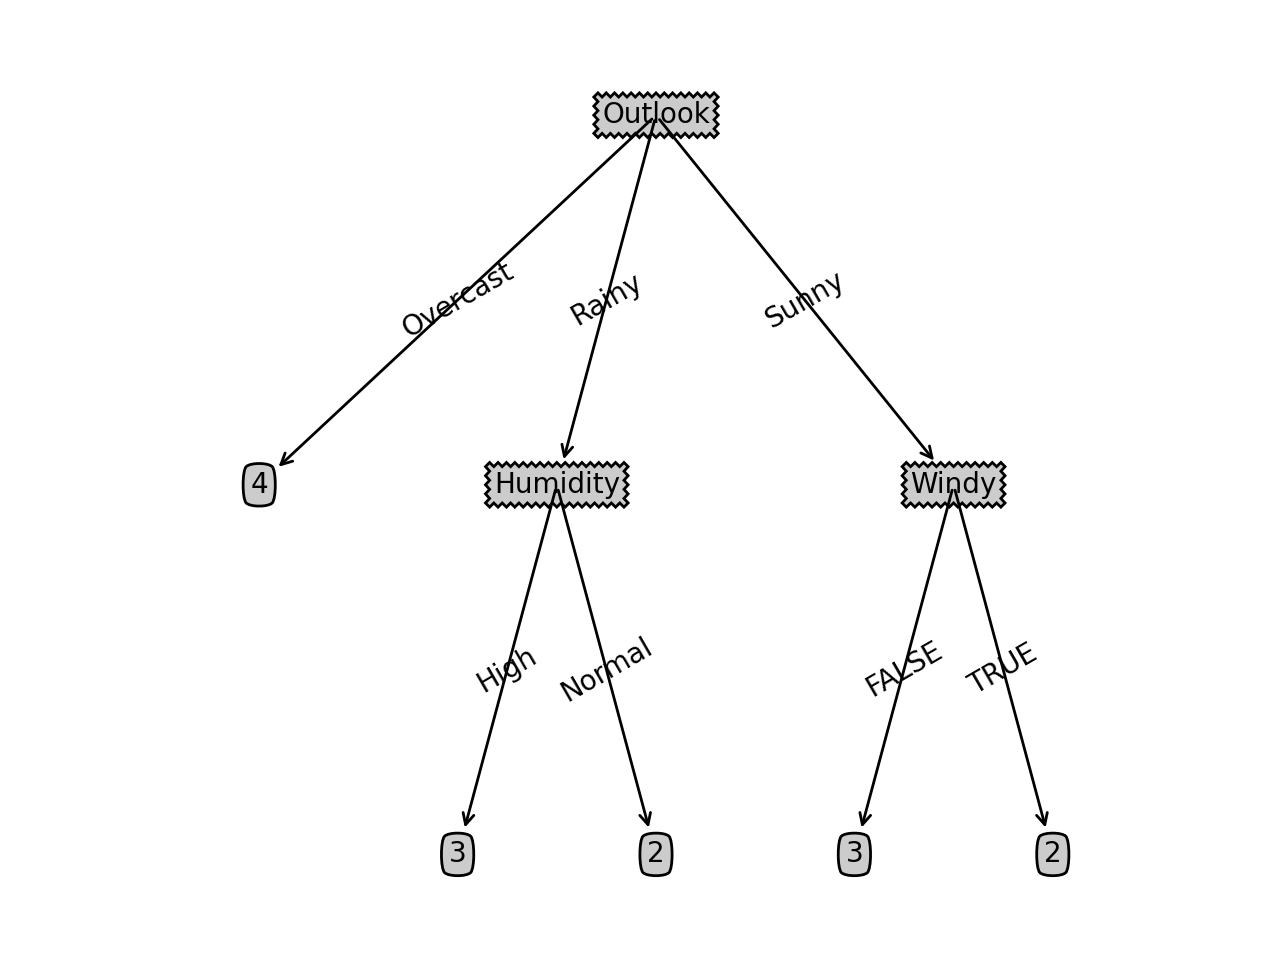
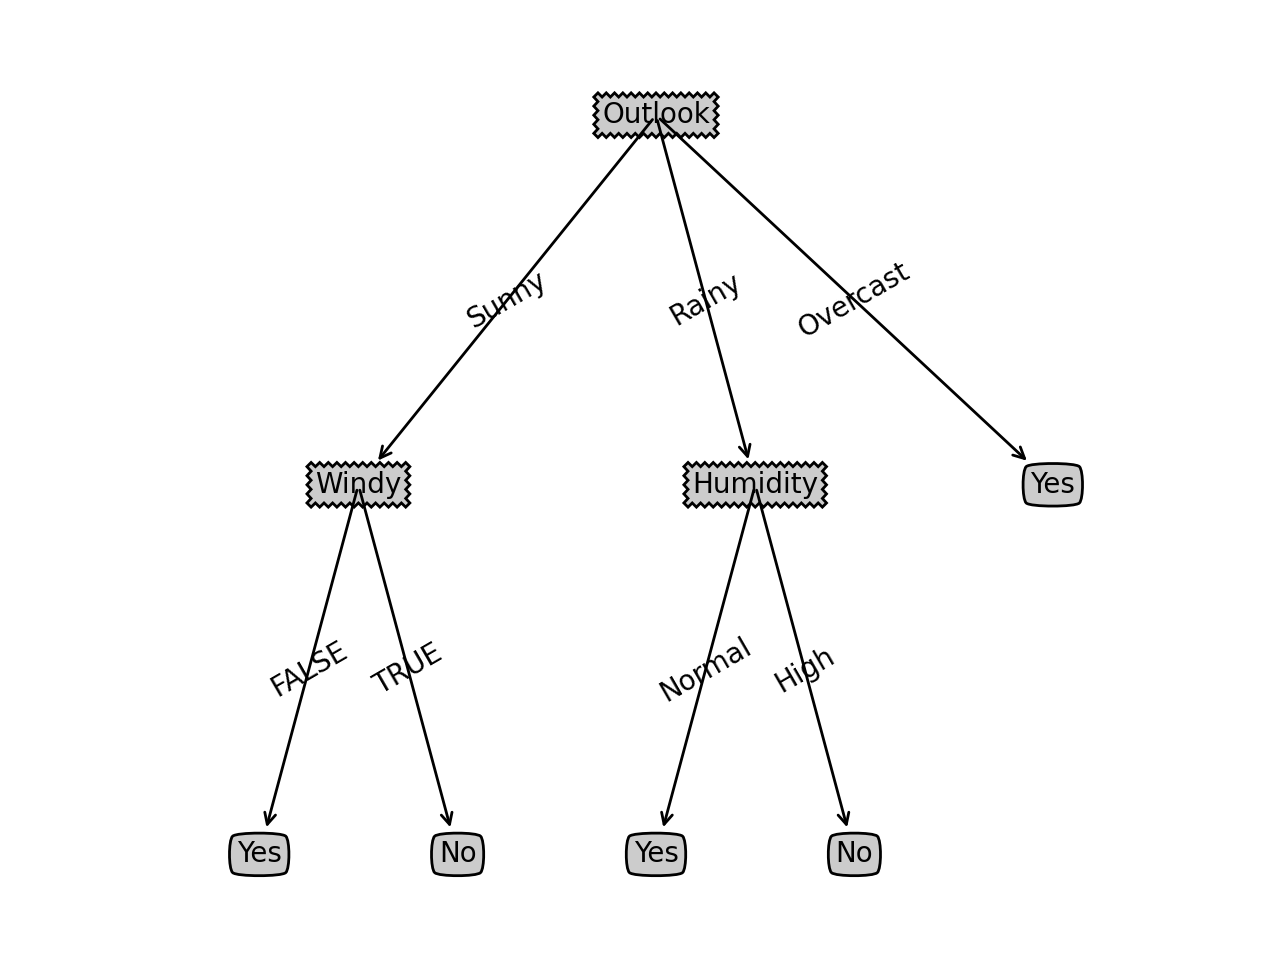
got car.csv working finally the stoppin criteria is weird

diff --git a/decisionTree_template.py b/decisionTree_template.py
@@ -4,7 +4,6 @@ import treeplot
 import pandas as pd
 import numpy as np
 
-feature_names = []
 
 def loadDataSet(filepath):
     '''
@@ -24,8 +23,6 @@ def loadDataSet(filepath):
             featNames = array[:-1]
         else:
             data.append(array)
-    global feature_names
-    feature_names = featNames
     return data, featNames
 
 
@@ -80,37 +77,28 @@ def chooseBestFeature(dataSet):
     dataFrame = pd.DataFrame(dataSet)
     classLabeCounts = dataFrame[dataFrame.columns[-1]].value_counts() #Yes and NO labels of the whole dataset
     bigGini = giniMath(dataFrame.shape[0], classLabeCounts) #This is the big gini of the entire dataset
-    print("Big Gini is: ", bigGini)
     for i in range(len(dataFrame.columns)-1): #looping through all the m feature columns and not label column
         uniqueValuesInFeature = dataFrame[i].unique() #unique features of the column we are at
         featureCounts = dataFrame[i].value_counts()
-        print("The feature counts of this column are: ",featureCounts)
         giniList = [] #list that will store little ginis
-        fractionList = [] #list that will store the yes fractions
+        fractionList = [] #list that will store the whole fractions
         for label in uniqueValuesInFeature:
-            print("feature label: ", label, " has count: ",featureCounts[label])
             df = pd.DataFrame(splitData(dataSet, i, label))
             subsetCount = df[df.columns[-1]].value_counts() # last column yes and no counts. The biggest one first
             giniList.append(giniMath(df.shape[0], subsetCount))
             fractionList.append(featureCounts[label]/dataFrame.shape[0])
-        print("Gini list length: ", len(giniList), " the list length of frac: ", len(fractionList))
-        # computeGin = 0
-        # for idx,value in enumerate(giniList):
-        #     print("The ginis ",giniList[idx], " ", fractionList[idx])
-        #     computeGin += (giniList[idx] * fractionList[idx])
-        # localGain = bigGini - computeGin
-        localGain = gainMath(bigGini, fractionList, giniList)
-        print("local gain is: ", localGain)
-        gain_list.append(localGain)
-    print(gain_list)
+        gain_list.append(gainMath(bigGini, fractionList, giniList))
+    print("The gain list: ", gain_list)
+    if len(gain_list) == 0: return 0
     return gain_list.index(max(gain_list))
 
 def gainMath(bigGini, fractionList, lilGiniList):
+    print("Big Gini: ", bigGini, " fraction list is: ", fractionList, " lilGiniList is: ", lilGiniList)
     giniTotal = 0
     for i in range(len(fractionList)):
         frac = fractionList[i]
         lilGini = lilGiniList[i]
-        giniTotal+=frac * lilGini
+        giniTotal += (frac * lilGini)
     return bigGini - giniTotal
 
 def giniMath(n,classLabelCount):
@@ -141,8 +129,10 @@ def stopCriteria(dataSet):
     # TODO
     df = pd.DataFrame(dataSet)
     lastColumn = df[df.columns[-1]]
-    counts = lastColumn.value_counts()
-    if(len(counts) == 1): return counts[0]
+    counts = lastColumn.value_counts() #get all unique values and occurence counts
+    countsList = counts.index.tolist() #convert the unique values to sorted list by the counts
+    if len(df.columns) == 1: return countsList[0]
+    if(len(counts) < 2): return countsList[0] #if there is only one count return that
     return assignedLabel
 
 def buildTree(dataSet, featNames):
@@ -162,8 +152,8 @@ def buildTree(dataSet, featNames):
     assignedLabel = stopCriteria(dataSet)
     if assignedLabel:
         return assignedLabel
-
     bestFeatId = chooseBestFeature(dataSet)
+    print("Best feature idx is ", bestFeatId, " which has value ", featNames[bestFeatId])
     bestFeatName = featNames[bestFeatId]
 
     myTree = {bestFeatName:{}}
@@ -179,7 +169,7 @@ def buildTree(dataSet, featNames):
 
 
 if __name__ == "__main__":
-    data, featNames = loadDataSet('golf.csv')
+    data, featNames = loadDataSet('car.csv')
     dtTree = buildTree(data, featNames)
     print (dtTree)
     treeplot.createPlot(dtTree)
